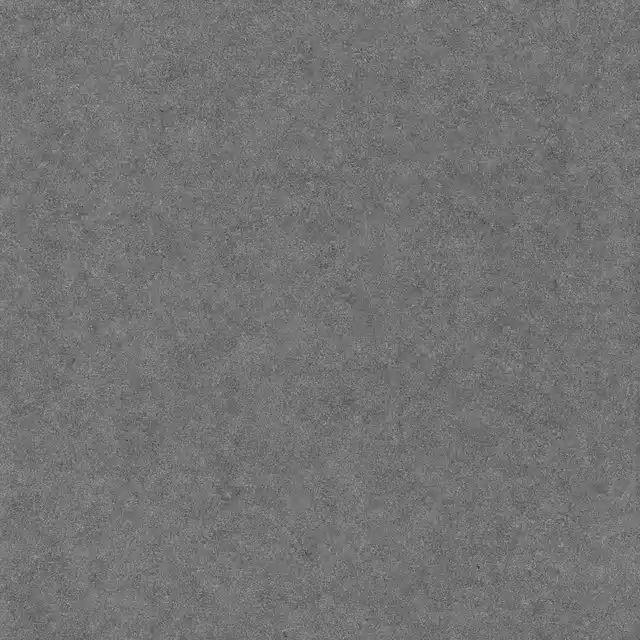
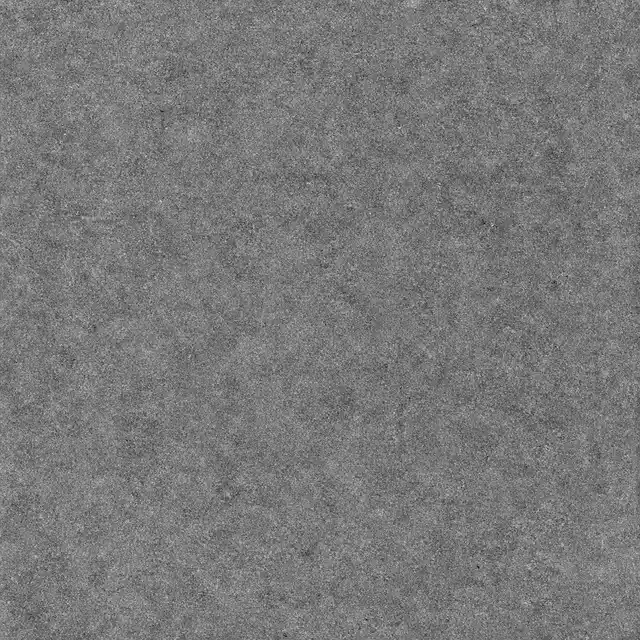
polish(brand): deepen texture and soften hero transition

diff --git a/apps/site/src/styles/global.css b/apps/site/src/styles/global.css
@@ -45,7 +45,8 @@
   --image-outline: rgba(0, 0, 0, 0.1);
   --canvas-grain-image: url("/brand/interface-grain-v1.webp");
   --canvas-grain-size: 40rem;
-  --canvas-grain-opacity: 0.075;
+  --canvas-grain-opacity: 0.105;
+  --canvas-grain-ink-opacity: 0.115;
   --canvas-grain-blend: multiply;
 
   --font-display: "Bricolage Grotesque Variable", "Instrument Sans Variable", ui-sans-serif, system-ui, sans-serif;
@@ -114,7 +115,7 @@
   --shadow-lg: 0 12px 24px oklch(0 0 0 / 0.4), 0 4px 8px oklch(0 0 0 / 0.28), 0 0 0 1px oklch(1 0 0 / 0.05);
   --shadow-xl: 0 24px 48px oklch(0 0 0 / 0.5), 0 8px 16px oklch(0 0 0 / 0.3), 0 0 0 1px oklch(1 0 0 / 0.06);
   --image-outline: rgba(255, 255, 255, 0.1);
-  --canvas-grain-opacity: 0.095;
+  --canvas-grain-opacity: 0.125;
   --canvas-grain-blend: screen;
 }
 
@@ -232,7 +233,7 @@
     background-size: var(--canvas-grain-size);
     background-repeat: repeat;
     mix-blend-mode: screen;
-    opacity: 0.085;
+    opacity: var(--canvas-grain-ink-opacity);
     content: "";
   }
 
@@ -576,11 +577,12 @@
     /* Compensated for the glow layer's 12% overscan: visible origin = 61% 34%. */
     --hero-glow-x: 58.9%;
     --hero-glow-y: 37.1%;
+    --hero-transition-color: oklch(0.115 0.042 272);
     position: relative;
     overflow: hidden;
     min-height: clamp(41rem, 100dvh, 50rem);
     color: oklch(0.965 0.014 278);
-    background: oklch(0.115 0.042 272);
+    background: var(--hero-transition-color);
   }
   .hero-scene {
     position: absolute;
@@ -624,7 +626,13 @@
     z-index: 2;
     inset: 0;
     pointer-events: none;
-    background: linear-gradient(to bottom, transparent 44%, oklch(0.105 0.038 272 / 0.16) 58%, oklch(0.105 0.038 272 / 0.38));
+    background: linear-gradient(
+      to bottom,
+      transparent 42%,
+      oklch(0.105 0.038 272 / 0.18) 56%,
+      color-mix(in oklch, var(--hero-transition-color) 78%, transparent) 72%,
+      var(--hero-transition-color) 86%
+    );
   }
   .hero-scene[data-copy-pulse] {
     animation: hero-scene-acknowledge var(--duration-acknowledge) linear both;
@@ -848,7 +856,15 @@
       min-height: max(40rem, 100dvh);
     }
     .hero-scene img { object-position: center top; }
-    .hero-scene::after { background: linear-gradient(to bottom, transparent 40%, oklch(0.105 0.038 272 / 0.1) 51%, oklch(0.105 0.038 272 / 0.3)); }
+    .hero-scene::after {
+      background: linear-gradient(
+        to bottom,
+        transparent 36%,
+        oklch(0.105 0.038 272 / 0.14) 49%,
+        color-mix(in oklch, var(--hero-transition-color) 76%, transparent) 68%,
+        var(--hero-transition-color) 82%
+      );
+    }
     .hero-message {
       grid-template-columns: minmax(0, 1fr);
       gap: 1.75rem;

diff --git a/apps/web/src/styles/tokens.css b/apps/web/src/styles/tokens.css
@@ -53,7 +53,8 @@
   /* ---- material canvas -------------------------------------------------- */
   --canvas-grain-image: url("/brand/interface-grain-v1.webp");
   --canvas-grain-size: 40rem;
-  --canvas-grain-opacity: 0.055;
+  --canvas-grain-opacity: 0.08;
+  --canvas-grain-ink-opacity: 0.105;
   --canvas-grain-blend: multiply;
 
   /* ---- radius scale — tighter than shadcn default ------------------------ */
@@ -279,7 +280,7 @@
   --border: oklch(0.34 0.052 274 / 0.7);
   --input: oklch(0.34 0.052 274);
   --ring: oklch(0.78 0.13 278 / 0.55);
-  --canvas-grain-opacity: 0.07;
+  --canvas-grain-opacity: 0.095;
   --canvas-grain-blend: screen;
 
   --shadow-xs: 0 1px 2px oklch(0 0 0 / 0.24);

diff --git a/apps/web/src/styles/index.css b/apps/web/src/styles/index.css
@@ -130,7 +130,7 @@
     background-size: var(--canvas-grain-size);
     background-repeat: repeat;
     mix-blend-mode: screen;
-    opacity: 0.08;
+    opacity: var(--canvas-grain-ink-opacity);
     content: "";
   }
 
